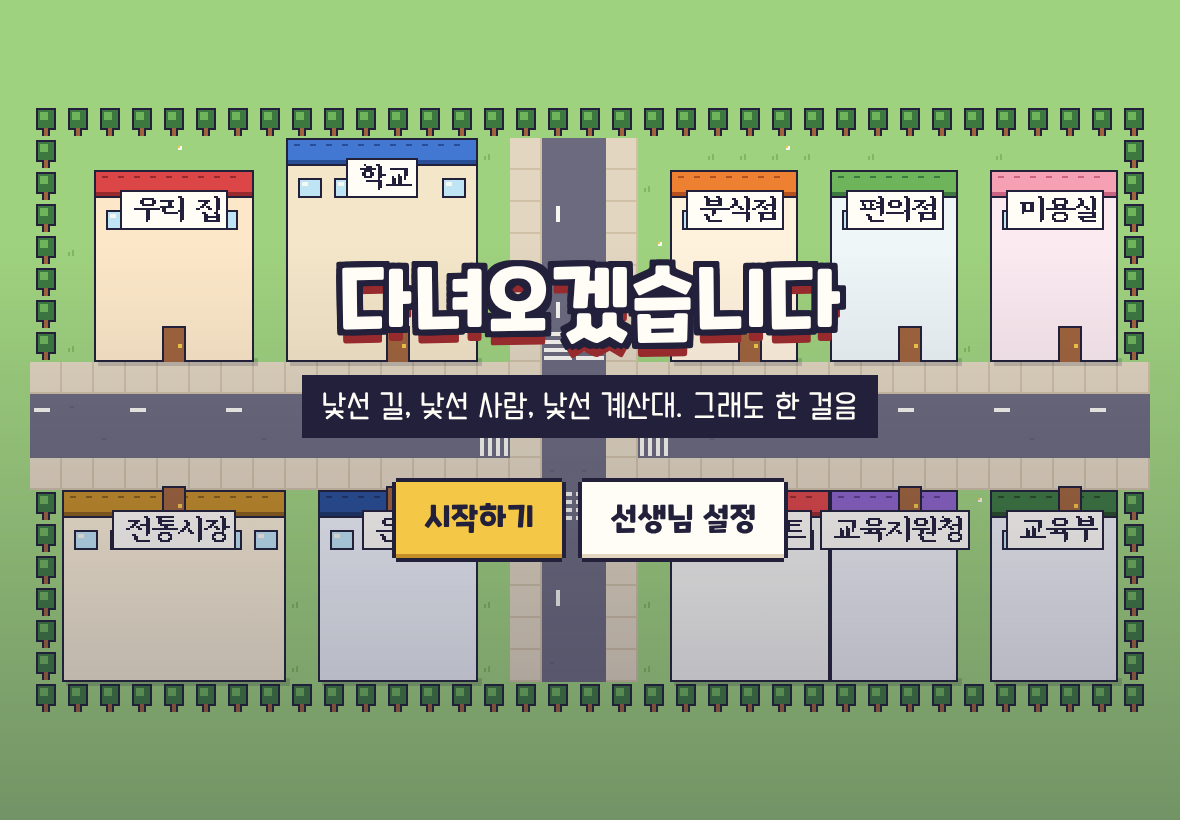
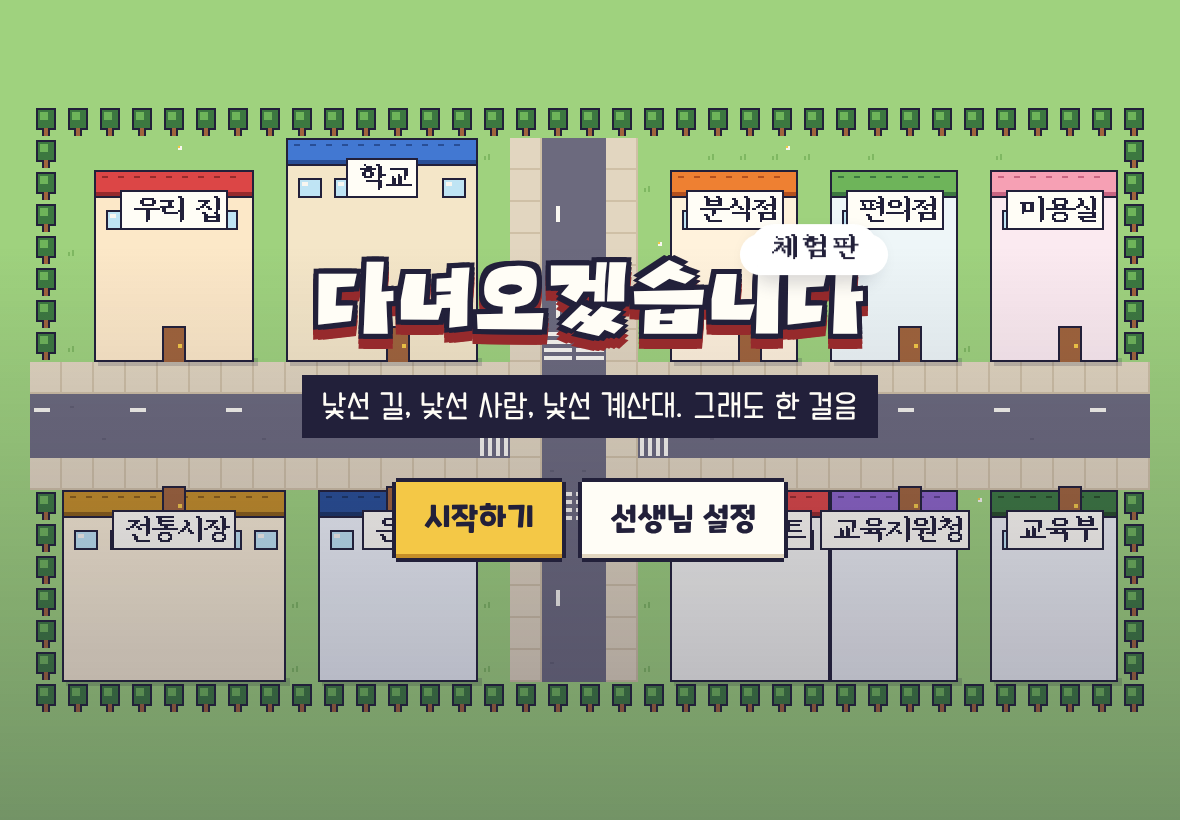
제목·엔딩에 와일드각 폰트, 체험판 구름 표시
Claude-Session: https://claude.ai/code/session_01R4Xdu1f7A5z8qN4VrJ6res

Changed region(s): [[0.2441, 0.2744, 0.7322, 0.4573]]

diff --git a/css/style.css b/css/style.css
@@ -1,12 +1,12 @@
 @font-face { font-family: 'Body'; src: url('../assets/fonts/HoonSaemaul.woff2') format('woff2'); font-display: swap; }
-@font-face { font-family: 'Title'; src: url('../assets/fonts/CookieRunBold.woff2') format('woff2'); font-display: swap; }
+@font-face { font-family: 'Title'; src: url('../assets/fonts/WILDgag-Bold.woff2') format('woff2'); font-display: swap; }
 @font-face { font-family: 'Num'; src: url('../assets/fonts/Minecraft.woff2') format('woff2'); font-display: swap; unicode-range: U+0020-007E; }
 @font-face { font-family: 'UI'; src: url('../assets/fonts/CookieRunBold.woff2') format('woff2'); font-display: swap; }
 @font-face { font-family: 'Item'; src: url('../assets/fonts/Dongwhachaek-B.woff2') format('woff2'); font-display: swap; }
 @font-face { font-family: 'Dialog'; src: url('../assets/fonts/Mayflower-B.woff2') format('woff2'); font-display: swap; }
 @font-face { font-family: 'Sam3KR'; src: url('../assets/fonts/Sam3KR.woff2') format('woff2'); font-display: block; }
-/* 엔딩 제목: [KIM]WILDgag-BOLD 파일을 assets/fonts/WILDgag-Bold.woff2 로 넣으면 바로 적용됩니다 */
-@font-face { font-family: 'Ending'; src: url('../assets/fonts/WILDgag-Bold.woff2') format('woff2'), url('../assets/fonts/CookieRunBold.woff2') format('woff2'); font-display: swap; }
+/* 제목과 마지막 엔딩: [KIM]WILDgag-BOLD */
+@font-face { font-family: 'Ending'; src: url('../assets/fonts/WILDgag-Bold.woff2') format('woff2'); font-display: swap; }
 
 :root {
   --paper: #fbf5e6;
@@ -45,6 +45,7 @@
 * { box-sizing: border-box; }
 html, body { margin: 0; height: 100%; }
 body {
+  font-synthesis: none;
   background: var(--grass);
   transition: background-color 300ms var(--ease-out);
   color: var(--ink);
@@ -293,13 +294,20 @@ body[data-map="indoor"] { background: var(--ink); }
 #screen { position: fixed; inset: 0; z-index: 30; overflow: auto; }
 .title-screen { min-height: 100%; display: grid; place-content: center; justify-items: center; text-align: center; padding: 32px 20px;
   background: linear-gradient(180deg, rgba(251,245,230,0) 0%, rgba(251,245,230,0.0) 30%, rgba(34,32,58,0.35) 100%); }
-.logo { font-family: var(--font-title); font-size: var(--step-3); line-height: 1; margin: 0; color: var(--card); letter-spacing: -0.01em;
-  text-shadow: 0 6px 0 var(--ink), 6px 0 0 var(--ink), -6px 0 0 var(--ink), 0 -6px 0 var(--ink), 6px 6px 0 var(--ink), -6px 6px 0 var(--ink), 6px -6px 0 var(--ink), -6px -6px 0 var(--ink), 0 14px 0 var(--tomato-deep);
+.logo { font-family: var(--font-title); font-weight: normal; font-synthesis: none; font-size: var(--step-3); line-height: 1; margin: 0; color: var(--card); letter-spacing: -0.01em;
+  filter: drop-shadow(5px 0 0 var(--ink)) drop-shadow(-5px 0 0 var(--ink)) drop-shadow(0 5px 0 var(--ink)) drop-shadow(0 -5px 0 var(--ink))
+    drop-shadow(0 10px 0 var(--tomato-deep));
   animation: logoIn 900ms var(--ease-out) both; }
+.logo-wrap { position: relative; display: inline-block; }
+.trial { position: absolute; right: -0.4em; top: -0.9em; font-family: var(--font-world); font-size: clamp(22px, 2.6vw, 34px); line-height: 1;
+  color: var(--ink); background: #ffffff; padding: 8px 18px 10px; border-radius: 999px;
+  box-shadow: -14px 6px 0 -4px #ffffff, 14px 6px 0 -4px #ffffff, 0 10px 18px rgba(34, 32, 58, 0.18);
+  animation: cloud 3.2s ease-in-out infinite, fadeUp 700ms 500ms var(--ease-out) both; }
+@keyframes cloud { 0%, 100% { translate: 0 0; } 50% { translate: 0 -10px; } }
 .tagline { margin: 34px 0 40px; font-size: var(--step-1); color: var(--card); background: var(--ink); padding: 8px 20px 10px; text-wrap: balance;
   animation: fadeUp 700ms 350ms var(--ease-out) both; }
 .title-screen .row { animation: fadeUp 700ms 550ms var(--ease-out) both; }
-@keyframes logoIn { from { opacity: 0; transform: translateY(24px) scale(0.96); filter: blur(6px); } to { opacity: 1; transform: none; filter: none; } }
+@keyframes logoIn { from { opacity: 0; transform: translateY(24px) scale(0.96); } to { opacity: 1; transform: none; } }
 @keyframes fadeUp { from { opacity: 0; transform: translateY(12px); } to { opacity: 1; transform: none; } }
 .screen-sheet { background: var(--paper); width: min(980px, calc(100vw - 32px)); margin: 32px auto; padding: 28px clamp(18px, 4vw, 40px) 32px;
   box-shadow: 0 -4px 0 var(--ink), 0 4px 0 var(--ink), -4px 0 0 var(--ink), 4px 0 0 var(--ink), 0 24px 48px var(--shade); }

diff --git a/js/game.js b/js/game.js
@@ -33,7 +33,12 @@ function titleScreen() {
   $('#hud').hidden = true; setGoal('');
   const sc = $('#screen'); sc.hidden = false; sc.innerHTML = '';
   const t = el('div', 'title-screen');
-  t.append(el('h1', 'logo', '다녀오겠습니다'), el('p', 'tagline', line('title.copy')));
+  const logo = el('div', 'logo-wrap');
+  logo.append(el('h1', 'logo', '다녀오겠습니다'));
+  const trial = el('span', 'trial', '체험판');
+  trial.setAttribute('aria-label', '체험판');
+  logo.append(trial);
+  t.append(logo, el('p', 'tagline', line('title.copy')));
   const row = el('div', 'row');
   const saved = load();
   if (saved) {

diff --git a/docs/기획서.md b/docs/기획서.md
@@ -134,7 +134,7 @@
 | 숫자 | Minecraft |
 | 아이템 이름 | 210 동화책 B |
 | 버튼, 제목 | 쿠키런 Bold |
-| 마지막 엔딩의 「다녀왔습니다」 | [KIM]WILDgag-BOLD (**파일을 아직 받지 못했습니다**. 그동안은 쿠키런 Bold로 표시합니다) |
+| 게임 제목 「다녀오겠습니다」, 마지막 엔딩 「다녀왔습니다」 | [KIM]WILDgag-BOLD |
 
 ## 12. 고칠 수 있는 데이터
 
@@ -146,10 +146,9 @@
 
 ## 13. 다음 작업
 
-1. [KIM]WILDgag-BOLD 폰트 받기
-2. 편의점 → 전통시장 → 미용실 → 대형마트 순서로 스테이지 추가 (키오스크, 셀프 계산대, 1+1 행사 포함)
-3. 교실·체육관·운동장 (학급 토큰, 대여 카드)
-4. 교육지원청(번호표, 민원실), 교육부(출입 절차, 최종 엔딩)
-5. 스티커 도감 화면과 동네 도장판
-6. 영역별 난이도(돈, 거스름돈, 카드, 기억, 대화를 따로 설정)
-7. 실제 학생 대상 플레이 테스트로 한 판 15~20분 맞추기
+1. 편의점 → 전통시장 → 미용실 → 대형마트 순서로 스테이지 추가 (키오스크, 셀프 계산대, 1+1 행사 포함)
+2. 교실·체육관·운동장 (학급 토큰, 대여 카드)
+3. 교육지원청(번호표, 민원실), 교육부(출입 절차, 최종 엔딩)
+4. 스티커 도감 화면과 동네 도장판
+5. 영역별 난이도(돈, 거스름돈, 카드, 기억, 대화를 따로 설정)
+6. 실제 학생 대상 플레이 테스트로 한 판 15~20분 맞추기

diff --git a/assets/fonts/README.md b/assets/fonts/README.md
@@ -7,8 +7,8 @@
 | 게임 세상 글자 | Sam3KR.woff2 | Sam3KRFont |
 | 숫자 | Minecraft.woff2 | Minecraft |
 | 아이템 이름 | Dongwhachaek-B.woff2 (R도 있음) | 210 동화책 |
-| 버튼·제목 | CookieRunBold.woff2 | 쿠키런 Bold |
-| 마지막 엔딩 | WILDgag-Bold.woff2 (아직 없음) | [KIM]WILDgag-BOLD. 이 이름으로 넣으면 바로 적용됩니다 |
+| 버튼·화면 제목 | CookieRunBold.woff2 | 쿠키런 Bold |
+| 게임 제목, 마지막 엔딩 | WILDgag-Bold.woff2 | [KIM]WILDgag-BOLD |
 
 모두 사용자가 제공한 폰트입니다. 웹용으로 가볍게 하려고 한글은 자주 쓰는 2,350자만 남겼습니다.
 공개 저장소에 올리기 전에 각 폰트가 웹 임베딩과 재배포를 허락하는지 확인해야 합니다.
